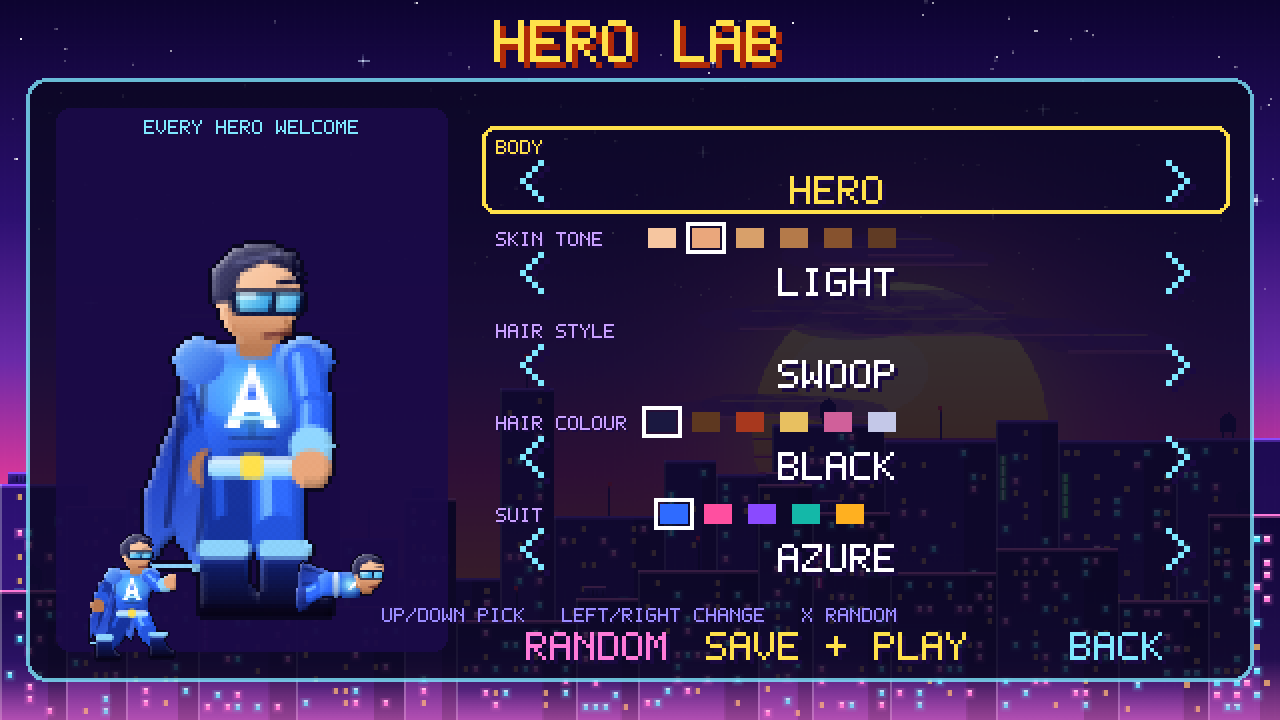
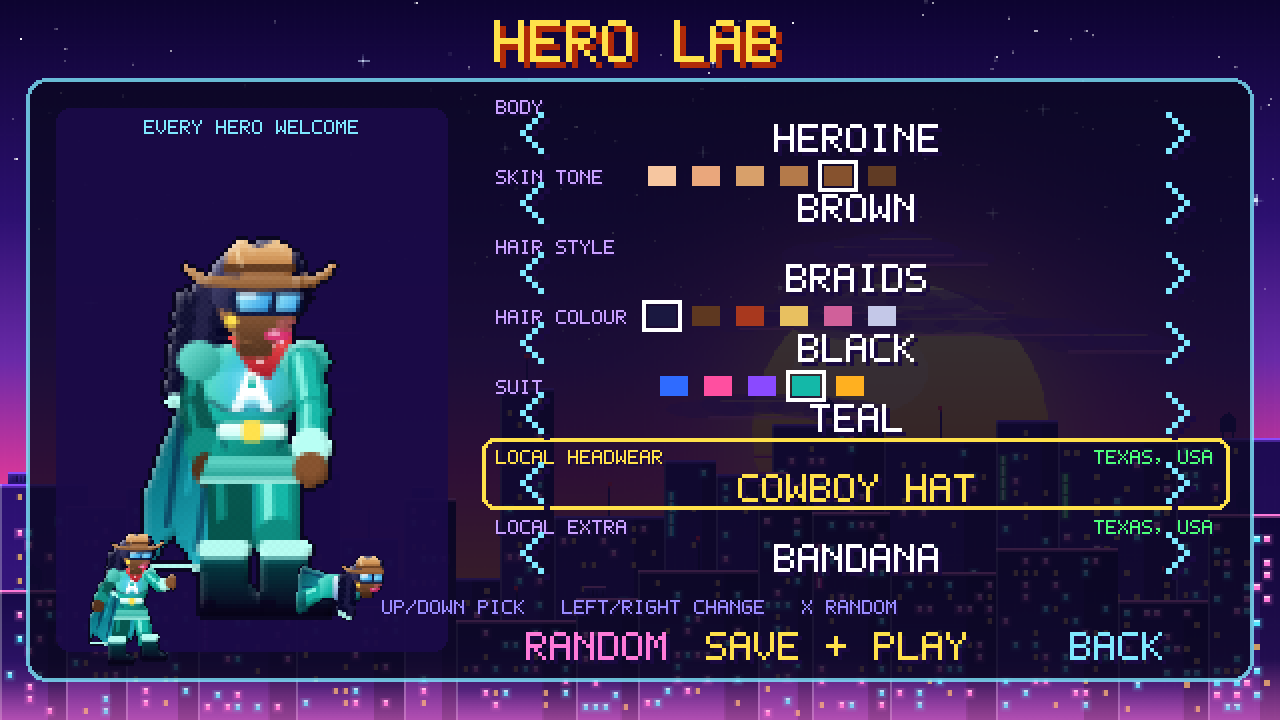
Hero Lab: localised headwear and extras
Cowboy hat, sombrero, bowler, beret, King's Day crown, hachimaki, cork hat,
gondolier hat, carnaval plumes, Azure cap and tricorn, plus clogs, football
scarf, serape, flower garland and bandana. Drawn in code for every pose.

diff --git a/art/sprites.js b/art/sprites.js
@@ -203,15 +203,24 @@
     { suit: '#14b8a8', suitD: '#06564e', suitM: '#0e8e82', suitL: '#7ff0e0', cape: '#0a7a8a', capeL: '#2ac8d8', capeD: '#04363e', boots: '#04363e', bootL: '#1aa0a0', cuff: '#b8fff4' },
     { suit: '#ffb020', suitD: '#9a5a08', suitM: '#e08a10', suitL: '#ffe08a', cape: '#d0401a', capeL: '#ff7a3a', capeD: '#5e1404', boots: '#5e1404', bootL: '#d8601a', cuff: '#fff0b8' }
   ];
-  const HERO_DEF = { m: { body: 'm', skin: 1, hair: 'swoop', hairCol: 0, suit: 0 }, f: { body: 'f', skin: 1, hair: 'long', hairCol: 4, suit: 1 } };
+  // local wardrobe: [key, name, where it comes from]
+  const HERO_HATS = [['none', 'NONE', 'NO HAT'], ['cowboy', 'COWBOY HAT', 'TEXAS, USA'], ['sombrero', 'SOMBRERO', 'MEXICO'],
+    ['bowler', 'BOWLER HAT', 'LONDON, UK'], ['beret', 'BERET', 'PARIS, FRANCE'], ['crown', 'ORANGE CROWN', "KING'S DAY, NL"],
+    ['hachimaki', 'HACHIMAKI', 'TOKYO, JAPAN'], ['cork', 'CORK HAT', 'OUTBACK, AUSTRALIA'], ['boater', 'GONDOLIER HAT', 'VENICE, ITALY'],
+    ['plumes', 'CARNAVAL PLUMES', 'RIO, BRAZIL'], ['cap', 'AZURE CAP', 'REDMOND, USA'], ['tricorn', 'TRICORN', 'VIRGINIA, USA']];
+  const HERO_GEAR = [['none', 'NONE', 'NO EXTRA'], ['clogs', 'WOODEN CLOGS', 'NETHERLANDS'], ['scarf', 'FOOTBALL SCARF', 'LONDON, UK'],
+    ['serape', 'SERAPE', 'MEXICO'], ['lei', 'FLOWER GARLAND', 'RIO, BRAZIL'], ['bandana', 'BANDANA', 'TEXAS, USA']];
+  const HERO_DEF = { m: { body: 'm', skin: 1, hair: 'swoop', hairCol: 0, suit: 0, hat: 'none', gear: 'none' }, f: { body: 'f', skin: 1, hair: 'long', hairCol: 4, suit: 1, hat: 'none', gear: 'none' } };
   const H = {};
-  let FEM = false, HAIR = 'swoop';
+  let FEM = false, HAIR = 'swoop', HAT = 'none', GEAR = 'none';
+  const known = (list, k) => list.some((x) => x[0] === k);
   function applyLook(L) {
     Object.assign(H, HERO_SUIT[L.suit] || HERO_SUIT[0]);
     const s = HERO_SKIN[L.skin] || HERO_SKIN[1], h = HERO_HAIR[L.hairCol] || HERO_HAIR[0];
     H.skinL = s[0]; H.skin = s[1]; H.skinD = s[2];
     H.hairL = h[0]; H.hair = h[1]; H.hairD = h[2];
     FEM = L.body === 'f'; HAIR = HERO_HAIR_STYLES.indexOf(L.hair) >= 0 ? L.hair : 'swoop';
+    HAT = known(HERO_HATS, L.hat) ? L.hat : 'none'; GEAR = known(HERO_GEAR, L.gear) ? L.gear : 'none';
   }
   applyLook(HERO_DEF.m);
 
@@ -238,6 +247,7 @@
     if (FEM) rrect(g, bx - 3, by - 1.6, 2, 1.8, 0.4, '#0a0620');
     rrect(g, bx - 3.2, by - 9, 6.6, 2.2, 0.8, H.cuff);
     line(g, bx - 2.4, by - 0.2, bx + 5.6, by - 0.2, 0.9, '#0a0620');
+    if (GEAR === 'clogs') heroClog(g, bx, by);
   }
   function heroEmblem(g, cx, cy, s) {
     const gl = g.createRadialGradient(cx, cy, 0.5, cx, cy, 6.5 * s);
@@ -326,6 +336,98 @@
       if (HAIR === 'long') poly(g, [[20.4, 3.6], [22.8, 5], [22.6, 7], [21.2, 5.4]], H.hair);
     }
   }
+  // headwear in head space (face looks right, glasses at y 6.6, canvas top is y 0)
+  function heroHat(g) {
+    const V = (y0, y1, c) => lg(g, 0, y0, 0, y1, c);
+    if (HAT === 'cowboy') {
+      poly(g, [[12.6, 4.8], [12.8, 1.6], [14.6, 0.5], [16.8, 1.5], [19, 0.5], [21, 1.6], [21.2, 4.8]], V(0.5, 5, [[0, '#f2c27e'], [0.6, '#c8884a'], [1, '#8a5428']]));
+      line(g, 12.8, 4, 21, 4, 1, '#5a3014');
+      poly(g, [[7.4, 3.2], [9.4, 4.8], [16.8, 5.4], [24.4, 4.8], [26.4, 3.2], [26, 4.6], [24, 6.2], [16.8, 6.8], [9.8, 6.2], [7.8, 4.6]], V(3, 7, [[0, '#e0a868'], [1, '#7a4620']]));
+      line(g, 14, 1.4, 14.6, 3.6, 0.5, 'rgba(255,240,200,0.6)');
+    } else if (HAT === 'sombrero') {
+      poly(g, [[13.6, 5.2], [14.2, 1.6], [16.8, 0.3], [19.4, 1.6], [20, 5.2]], V(0.3, 5.2, [[0, '#fff0a8'], [1, '#d8a040']]));
+      line(g, 13.8, 3.8, 19.8, 3.8, 1, '#d0203a'); for (let x = 14.2; x < 19.6; x += 1.4) ell(g, x, 3.8, 0.35, 0.35, '#2ab04a');
+      poly(g, [[3.2, 3.4], [5.4, 5.2], [16.8, 6], [28.2, 5.2], [30.4, 3.4], [30, 5.2], [27.6, 7], [16.8, 7.6], [6, 7], [3.6, 5.2]], V(3.4, 7.6, [[0, '#ffe08a'], [1, '#b07a24']]));
+      for (let x = 5.4; x < 28.6; x += 2.2) line(g, x, 6.1 + Math.abs(x - 16.8) * -0.03, x + 1.1, 6.9, 0.5, '#d0203a');
+    } else if (HAT === 'bowler') {
+      g.save(); g.beginPath(); g.rect(0, -2, 32, 5.2); g.clip(); ell(g, 16.8, 5.2, 5.4, 5, lg(g, 12, 0, 22, 5, [[0, '#6a5c80'], [0.35, '#2a2034'], [1, '#0a0610']])); g.restore();
+      line(g, 11.6, 4.3, 22, 4.3, 1, '#7a2a3a');
+      poly(g, [[9.2, 3.8], [10.6, 4.8], [16.8, 5.2], [23, 4.8], [24.4, 3.8], [24.2, 5.2], [22.6, 6.2], [16.8, 6.4], [11, 6.2], [9.4, 5.2]], '#16101e');
+      line(g, 10, 5.4, 23.6, 5.4, 0.4, 'rgba(160,140,200,0.6)');
+      ell(g, 15, 1.8, 1.6, 0.8, 'rgba(255,255,255,0.35)', -0.4);
+    } else if (HAT === 'beret') {
+      ell(g, 17.4, 3.2, 6.8, 2.6, V(0.6, 5.8, [[0, '#ff5a6a'], [0.5, '#c81e3a'], [1, '#6a0a1a']]), -0.12);
+      line(g, 11.2, 4.8, 22, 5, 0.9, '#6a0a1a');
+      line(g, 17.6, 0.8, 17.9, 0.1, 0.8, '#6a0a1a');
+    } else if (HAT === 'crown') {
+      poly(g, [[12.2, 5.2], [12, 1.4], [14, 3], [15.4, 0.4], [16.8, 2.6], [18.2, 0.4], [19.6, 3], [21.6, 1.4], [21.4, 5.2]], V(0.4, 5.2, [[0, '#ffd060'], [0.5, '#ff8a10'], [1, '#c04a00']]));
+      line(g, 12.2, 4.6, 21.4, 4.6, 0.8, '#ffe8a0');
+      [[12, 1.4], [15.4, 0.6], [18.2, 0.6], [21.6, 1.4]].forEach((p) => ell(g, p[0], p[1] + 0.2, 0.6, 0.6, '#fff4c0'));
+    } else if (HAT === 'hachimaki') {
+      rrect(g, 11, 3.6, 12, 1.8, 0.8, V(3.6, 5.4, [[0, '#ffffff'], [1, '#c8d0e8']]));
+      ell(g, 20.4, 4.5, 1, 0.8, '#e0102a');
+      poly(g, [[11.4, 4], [8.4, 5.4], [6.4, 8.6], [8.2, 8], [10.6, 5.6]], '#e8ecf8');
+      poly(g, [[11.4, 4.8], [9, 7.6], [8.6, 10.6], [10, 9.4], [11.6, 6]], '#c8d0e8');
+    } else if (HAT === 'cork') {
+      poly(g, [[13, 4.8], [13.2, 1.6], [15, 0.8], [16.8, 1.8], [18.6, 0.8], [20.6, 1.6], [20.8, 4.8]], V(0.8, 4.8, [[0, '#e8d4a0'], [1, '#a08850']]));
+      line(g, 13.2, 4, 20.6, 4, 0.9, '#3a2410');
+      poly(g, [[9, 4.4], [16.8, 5.2], [24.6, 4.4], [24.8, 5.4], [16.8, 6.4], [8.8, 5.4]], '#b09a60');
+      [[9.6, 9.6], [11.2, 8.4], [23, 8.4], [24.4, 9.8]].forEach((c) => { line(g, c[0], 5.4, c[0], c[1], 0.3, '#3a2410'); rrect(g, c[0] - 0.6, c[1], 1.2, 1.8, 0.3, '#d8a868'); });
+    } else if (HAT === 'boater') {
+      rrect(g, 12.6, 1.2, 8.6, 3.8, 0.6, V(1.2, 5, [[0, '#fff2b0'], [1, '#d0a848']]));
+      for (let y = 1.8; y < 3.6; y += 0.9) line(g, 12.8, y, 21, y, 0.3, 'rgba(150,100,30,0.5)');
+      rrect(g, 12.6, 3.4, 8.6, 1.4, 0.3, '#d0203a');
+      poly(g, [[12.8, 3.6], [11, 5.6], [10.4, 8.4], [11.6, 7], [13, 4.6]], '#a01828');
+      poly(g, [[8.6, 4.6], [25, 4.6], [24.6, 5.8], [9, 5.8]], V(4.6, 5.8, [[0, '#ffe8a0'], [1, '#b08a3a']]));
+    } else if (HAT === 'plumes') {
+      const F = [['#ff3aa8', -3.1], ['#ffd020', -2.8], ['#2ad06a', -2.5], ['#3ad8ff', -2.2], ['#ff7a1a', -1.9], ['#c84aff', -1.6]];
+      F.forEach((f) => { const a = f[1], x = 15 + Math.cos(a) * 5, y = 4.2 + Math.sin(a) * 3.4; ell(g, x, y, 4.6, 1.1, f[0], Math.atan2(Math.sin(a) * 3.4, Math.cos(a) * 5)); line(g, 15.6, 3.4, x + Math.cos(a) * 3, y + Math.sin(a) * 3, 0.3, 'rgba(255,255,255,0.7)'); });
+      rrect(g, 11.2, 3.4, 11.6, 1.8, 0.7, V(3.4, 5.2, [[0, '#fff0a0'], [1, '#d09020']]));
+      ell(g, 19.6, 4.3, 1, 0.9, '#3ad8ff'); ell(g, 15, 4.3, 0.7, 0.7, '#ff3aa8');
+    } else if (HAT === 'cap') {
+      g.save(); g.beginPath(); g.rect(0, -2, 32, 5.6); g.clip(); ell(g, 16.6, 5.4, 5.8, 5.2, V(0, 5.6, [[0, '#7fd0ff'], [0.4, '#1a7ae0'], [1, '#0a3a8a']])); g.restore();
+      poly(g, [[19.6, 4.4], [25.8, 4.8], [26.4, 5.8], [19.6, 6]], V(4.4, 6, [[0, '#2a8aff'], [1, '#08286a']]));
+      [['#f25022', 0, 0], ['#7fba00', 1, 0], ['#00a4ef', 0, 1], ['#ffb900', 1, 1]].forEach((q) => { g.fillStyle = q[0]; g.fillRect(16.4 + q[1], 1.8 + q[2], 0.9, 0.9); });
+      ell(g, 16.6, 0.5, 0.7, 0.4, '#0a3a8a');
+    } else if (HAT === 'tricorn') {
+      poly(g, [[9.4, 5.6], [10.6, 1.2], [13.6, 3], [16.8, 0.4], [20, 3], [23, 1.2], [24.2, 5.6], [16.8, 6.4]], V(0.4, 6.4, [[0, '#4a4070'], [0.5, '#1c1834'], [1, '#0a0818']]));
+      g.strokeStyle = '#e8c060'; g.lineWidth = 0.5; g.beginPath(); g.moveTo(10.6, 1.4); g.lineTo(13.6, 3.2); g.lineTo(16.8, 0.6); g.lineTo(20, 3.2); g.lineTo(23, 1.4); g.stroke();
+      ell(g, 21.4, 3.6, 0.9, 0.9, '#ffffff');
+    }
+  }
+  // wearable extras in body space; pose 'fly' uses the horizontal flight rig
+  function heroGear(g, pose) {
+    const fly = pose === 'fly';
+    if (GEAR === 'scarf') {
+      if (fly) { rrect(g, 20.6, 18.4, 3, 5, 1, '#d0203a'); poly(g, [[21, 19], [12, 15.4], [11, 17.4], [21, 21.4]], '#d0203a'); for (let x = 13; x < 20; x += 2.4) line(g, x, 16, x + 0.4, 18.6, 1, '#ffffff'); return; }
+      rrect(g, 12.6, 12.4, 8.4, 3, 1.2, '#d0203a'); for (let x = 13.6; x < 21; x += 2.4) line(g, x, 12.6, x, 15.2, 0.9, '#ffffff');
+      rrect(g, 12.2, 14, 2.8, 9.4, 0.8, '#d0203a'); for (let y = 15.4; y < 23; y += 2.4) line(g, 12.4, y, 14.8, y, 0.9, '#ffffff');
+      for (let x = 12.6; x < 15; x += 0.8) line(g, x, 23.4, x, 24.6, 0.3, '#ffffff');
+    } else if (GEAR === 'bandana') {
+      if (fly) { poly(g, [[20.4, 18.2], [24, 18.6], [21.6, 22.4]], '#d0203a'); return; }
+      poly(g, [[13, 12.6], [21.2, 12.6], [18.2, 18], [15.6, 16.8]], lg(g, 0, 12, 0, 18, [[0, '#ff4a4a'], [1, '#a01020']]));
+      [[15.2, 13.6], [18.4, 13.8], [17, 15.6], [19.6, 13.2]].forEach((p) => ell(g, p[0], p[1], 0.4, 0.4, '#ffffff'));
+    } else if (GEAR === 'lei') {
+      const C = ['#ff3aa8', '#ffd020', '#ffffff', '#ff7a1a', '#c84aff'];
+      for (let i = 0; i <= 10; i++) {
+        const t = i / 10, x = fly ? 22.4 - Math.sin(t * Math.PI) * 4 : 11.6 + t * 9.6, y = fly ? 17.6 + t * 8 : 13.6 + Math.sin(t * Math.PI) * 5.4;
+        ell(g, x, y, 1.15, 1.15, C[i % 5]); ell(g, x, y, 0.35, 0.35, '#ffe14a');
+      }
+    } else if (GEAR === 'serape') {
+      if (fly) { [['#d0203a', 17.4], ['#ffd020', 18.6], ['#2ab04a', 19.8], ['#3ad8ff', 21]].forEach((s) => line(g, 10, s[1] - 1.2, 22, s[1] - 1.8, 1.2, s[0])); return; }
+      poly(g, [[8.4, 15.6], [11.6, 13.4], [20.4, 13.4], [23.6, 15.6], [22.4, 19.4], [16, 22.6], [9.6, 19.4]], '#7a1a2a');
+      g.save(); g.beginPath(); g.moveTo(8.4, 15.6); g.lineTo(11.6, 13.4); g.lineTo(20.4, 13.4); g.lineTo(23.6, 15.6); g.lineTo(22.4, 19.4); g.lineTo(16, 22.6); g.lineTo(9.6, 19.4); g.closePath(); g.clip();
+      ['#d0203a', '#ffd020', '#2ab04a', '#3ad8ff', '#ff7a1a', '#ffffff'].forEach((c, i) => line(g, 6, 14.4 + i * 1.6, 26, 14.4 + i * 1.6, 0.9, c));
+      g.restore();
+      for (let x = 10.6; x < 22; x += 1.2) line(g, x, 19.8 + (1 - Math.abs(x - 16) / 6) * 2.4, x, 21 + (1 - Math.abs(x - 16) / 6) * 2.4, 0.3, '#ffd020');
+      rrect(g, 14.6, 13, 3.6, 1.6, 0.6, '#3a0a14');
+    }
+  }
+  function heroClog(g, bx, by) {
+    poly(g, [[bx - 3.2, by - 4.4], [bx + 2.4, by - 4.6], [bx + 6.6, by - 2], [bx + 6.8, by + 0.4], [bx - 3.2, by + 0.4]], lg(g, 0, by - 5, 0, by + 1, [[0, '#fff090'], [0.5, '#f0c020'], [1, '#a07008']]));
+    line(g, bx - 2.6, by - 4, bx + 2.2, by - 4.1, 0.5, '#fffbe0');
+    ell(g, bx + 3.4, by - 2.4, 0.9, 0.6, '#d08a10');
+  }
   function heroHead(g, dx, dy, skipBack) {
     dx = dx || 0; dy = dy || 0;
     g.save(); g.translate(dx, dy);
@@ -346,6 +448,7 @@
       line(g, 22.4, 7, 23.4, 6.2, 0.45, '#0a0620'); line(g, 22.4, 8, 23.6, 7.6, 0.45, '#0a0620');
       g.globalAlpha = 0.35; ell(g, 20.4, 11, 1.4, 0.9, '#ff6a9a'); g.globalAlpha = 1;
     } else line(g, 17.6, 12.5, 20.6, 12.1, 0.7, '#7a3a34');
+    heroHat(g);
     g.restore();
   }
   function heroShoulder(g, x, y, big) {
@@ -373,6 +476,7 @@
       heroTorso(g);
       heroShoulder(g, 22.6, 15.6, true);
       heroShoulder(g, 9.4, 15.6, false);
+      heroGear(g, 'stand');
       heroArm(g, o.front[0], o.front[1], o.front[2], true, o.fist);
       heroHead(g, o.hx, o.hy, backHair);
       if (o.punchFx) {
@@ -403,10 +507,11 @@
       poly(g, [[14, 18], [2, 14], [0.8, 20], [1.6, 26], [14, 26]], lg(g, 0, 14, 14, 26, [[0, H.capeD], [0.5, H.cape], [1, H.capeL]]));
       line(g, 12, 19, 3, 16.5, 0.8, 'rgba(8,16,70,0.55)'); line(g, 12, 22, 2.4, 22, 0.8, 'rgba(8,16,70,0.55)');
       line(g, 12, 25, 3, 26, 0.7, 'rgba(120,170,255,0.5)');
+const CL = GEAR === 'clogs' ? (y0, y1) => lg(g, 0, y0, 0, y1, [[0, '#fff090'], [1, '#c09010']]) : null;
       limb(g, 7, 25, 1.4, 28, 5.4, H.suitD, H.suitD, H.suitM);                                      // back leg
-      poly(g, [[0.4, 26], [3.6, 25], [4.6, 31], [0.6, 31.4]], lg(g, 0, 25, 4, 31, [[0, H.bootL], [1, H.boots]]));
+      poly(g, [[0.4, 26], [3.6, 25], [4.6, 31], [0.6, 31.4]], CL ? CL(25, 31) : lg(g, 0, 25, 4, 31, [[0, H.bootL], [1, H.boots]]));
       limb(g, 8, 24, 3, 26, 5.6, H.suitM, H.suit, H.suitL);                                         // front leg
-      poly(g, [[0, 23.6], [3.4, 23.2], [4.2, 29], [0.4, 29.4]], lg(g, 0, 23, 4, 29, [[0, H.bootL], [1, H.boots]]));
+      poly(g, [[0, 23.6], [3.4, 23.2], [4.2, 29], [0.4, 29.4]], CL ? CL(23, 29) : lg(g, 0, 23, 4, 29, [[0, H.bootL], [1, H.boots]]));
       poly(g, [[8, 19], [12, 17.4], [23, 18.4], [25, 21], [23, 26.4], [9, 26]], lg(g, 8, 17, 22, 26, [[0, H.suitL], [0.4, H.suit], [1, H.suitD]]));
       rrect(g, 13.2, 18, 2.6, 8.4, 1, lg(g, 0, 18, 0, 27, [[0, '#e6f6ff'], [1, '#6a8fc8']]));
       const gl = g.createRadialGradient(19.6, 22, 0.5, 19.6, 22, 5);
@@ -418,6 +523,7 @@
       limb(g, 28.4, 17.6, 31.4, 16.6, 4, H.suitM, H.suit, H.suitL);
       ell(g, 30, 17, 2.6, 2.6, H.cuff); ell(g, 31.3, 16.8, 2.5, 2.5, H.skin);
       rrect(g, 21.6, 20.6, 3.6, 3, 1, H.skinD);                                                      // neck
+      heroGear(g, 'fly');
       g.save(); g.translate(9.4, 10.4);
       heroHead(g, 0, 0);
       g.restore();
@@ -5119,7 +5225,7 @@
     sceneryKeys: sceneryKeys,
     billKeys: billKeys,
     hero: {
-      skins: HERO_SKIN.map((c) => c[1]), hairCols: HERO_HAIR.map((c) => c[1]), styles: HERO_HAIR_STYLES,
+      skins: HERO_SKIN.map((c) => c[1]), hairCols: HERO_HAIR.map((c) => c[1]), styles: HERO_HAIR_STYLES, hats: HERO_HATS, gear: HERO_GEAR,
       suits: HERO_SUIT.map((c) => c.suit), def: HERO_DEF
     },
     // saved Hero Lab look, falling back to the classic hero / heroine presets
@@ -5130,7 +5236,7 @@
     },
     // draws the hero frames for a look once and returns the texture prefix (frames: idle run0-3 jump attack shield fly)
     buildHero: function (scene, look) {
-      const P = 'hl_' + [look.body, look.skin, look.hair, look.hairCol, look.suit].join('_') + '_';
+      const P = 'hl_' + [look.body, look.skin, look.hair, look.hairCol, look.suit, look.hat || 'none', look.gear || 'none'].join('_') + '_';
       if (!scene.textures.exists(P + 'idle')) {
         regHero(P, look);
         HERO_FRAMES.forEach(function (f) { if (!scene.textures.exists(P + f)) scene.textures.addCanvas(P + f, defs[P + f]); });

diff --git a/systems/scenes.js b/systems/scenes.js
@@ -152,22 +152,31 @@
         { k: 'skin', label: 'SKIN TONE', n: A.skins.length, sw: A.skins, name: (i) => SKIN_NAMES[i] },
         { k: 'hair', label: 'HAIR STYLE', n: A.styles.length, get: () => A.styles.indexOf(this.look.hair), set: (i) => { this.look.hair = A.styles[i]; }, name: (i) => HAIR_NAMES[A.styles[i]] },
         { k: 'hairCol', label: this.look.hair === 'hijab' ? 'SCARF COLOUR' : 'HAIR COLOUR', n: A.hairCols.length, sw: A.hairCols, name: (i) => HAIRCOL_NAMES[i] },
-        { k: 'suit', label: 'SUIT', n: A.suits.length, sw: A.suits, name: (i) => SUIT_NAMES[i] }
+        { k: 'suit', label: 'SUIT', n: A.suits.length, sw: A.suits, name: (i) => SUIT_NAMES[i] },
+        { k: 'hat', label: 'LOCAL HEADWEAR', n: A.hats.length, list: A.hats },
+        { k: 'gear', label: 'LOCAL EXTRA', n: A.gear.length, list: A.gear }
       ];
+      this.rows.forEach((r) => {
+        if (!r.list) return;
+        r.get = () => Math.max(0, r.list.findIndex((x) => x[0] === this.look[r.k]));
+        r.set = (i) => { this.look[r.k] = r.list[i][0]; };
+        r.name = (i) => r.list[i][1];
+      });
       this.sel = 0;
       this.sw = this.add.graphics().setDepth(4);
       this.rows.forEach((r, i) => {
-        const y = 70 + i * 46;
+        const y = 50 + i * 35;
         r.y = y;
         r.lab = T(this, 248, y, r.label, { scale: 1, color: '#c9a0ff' });
-        r.val = T(this, 420, y + 18, '', { scale: 2, color: '#ffffff', ox: 0.5 });
+        if (r.list) r.from = T(this, 608, y, '', { scale: 1, color: '#4dff7a', ox: 1 });
+        r.val = T(this, 430, y + 12, '', { scale: 2, color: '#ffffff', ox: 0.5 });
         const step = (d) => { this.sel = i; this.change(d); };
-        AH.UI.button(this, 270, y + 22, '<', () => step(-1), { scale: 3 }).setDepth(20);
-        AH.UI.button(this, 590, y + 22, '>', () => step(1), { scale: 3 }).setDepth(20);
-        const z = this.add.zone(300, y - 4, 270, 40).setOrigin(0).setInteractive();
+        AH.UI.button(this, 270, y + 18, '<', () => step(-1), { scale: 3 }).setDepth(20);
+        AH.UI.button(this, 590, y + 18, '>', () => step(1), { scale: 3 }).setDepth(20);
+        const z = this.add.zone(300, y - 4, 270, 34).setOrigin(0).setInteractive();
         z.on('pointerdown', () => { this.sel = i; this.refresh(); });
       });
-      T(this, 320, 304, 'UP/DOWN PICK   LEFT/RIGHT CHANGE   X RANDOM', { scale: 1, color: '#9a8cff', ox: 0.5 });
+      T(this, 320, 300, 'UP/DOWN PICK   LEFT/RIGHT CHANGE   X RANDOM', { scale: 1, color: '#9a8cff', ox: 0.5 });
       AH.UI.button(this, 420, 324, 'SAVE + PLAY', () => this.done(true), { scale: 2, color: '#ffe14a' }).setDepth(20);
       AH.UI.button(this, 560, 324, 'BACK', () => this.done(false), { scale: 2 }).setDepth(20);
       AH.UI.button(this, 300, 324, 'RANDOM', () => this.random(), { scale: 2, color: '#ff7ad9' }).setDepth(20);
@@ -192,7 +201,7 @@
     }
     random() {
       const A = AH.Art.hero, R = (n) => Math.floor(Math.random() * n);
-      this.look = { body: R(2) ? 'f' : 'm', skin: R(A.skins.length), hair: A.styles[R(A.styles.length)], hairCol: R(A.hairCols.length), suit: R(A.suits.length) };
+      this.look = { body: R(2) ? 'f' : 'm', skin: R(A.skins.length), hair: A.styles[R(A.styles.length)], hairCol: R(A.hairCols.length), suit: R(A.suits.length), hat: A.hats[R(A.hats.length)][0], gear: A.gear[R(A.gear.length)][0] };
       AH.Audio.play('power');
       this.refresh();
     }
@@ -205,7 +214,8 @@
         r.lab.setColor(on ? '#ffe14a' : '#c9a0ff');
         if (r.k === 'hairCol') r.lab.setText(this.look.hair === 'hijab' ? 'SCARF COLOUR' : 'HAIR COLOUR');
         r.val.setText(r.name(v)).setColor(on ? '#ffe14a' : '#ffffff');
-        if (on) sw.lineStyle(2, 0xffe14a, 1).strokeRoundedRect(242, r.y - 6, 372, 42, 6);
+        if (r.from) r.from.setText(r.list[v][2]);
+        if (on) sw.lineStyle(2, 0xffe14a, 1).strokeRoundedRect(242, r.y - 5, 372, 34, 6);
         if (r.sw) r.sw.forEach((c, j) => {
           const x = 330 + j * 22 - (r.sw.length - 5) * 6, col = Phaser.Display.Color.HexStringToColor(c).color;
           sw.fillStyle(col, 1).fillRect(x, r.y - 2, 14, 10);

diff --git a/.github/skills/game-contract/SKILL.md b/.github/skills/game-contract/SKILL.md
@@ -76,7 +76,7 @@ F Azure Blast, Shift Flight Boost, E / S / Down = MFA Shield, P pause, R restart
 - Landmarks may come from anywhere in the country, not only the region's city.
 
 ### Save, resume and online contract
-- `AH.Save.data = { best, unlocked, bests: {id: score}, muted, hero, look, resume: {id, score, lives} | null, updated }`. `unlocked` is `n + 1` when all n levels are cleared.
+- `AH.Save.data = { best, unlocked, bests: {id: score}, muted, hero, look: {body, skin, hair, hairCol, suit, hat, gear}, resume: {id, score, lives} | null, updated }`. `unlocked` is `n + 1` when all n levels are cleared.
 - Resume rules: level start saves `{id, startScore, startLives}`. Game over saves `{id, 0, 3}`. Level complete saves the next level with the current score and lives, or `null` after the last level. Call `AH.Save.setResume(id, score, lives)`. Never write `resume` directly.
 - `AH.Online` (`systems/online.js`) is only active when `/api/health` answers. Otherwise the game is in guest mode and nothing breaks. `save()` pushes progress when logged in. `submitScore(score, level, city)` returns `{best, rank}` or `null`.
 - Server API (`server.js`, see README): `health`, `leaderboard`, `register`, `login`, `me`, `logout`, `progress` (merge: unlocks never go backwards; newer `updated` wins for resume), `score`. Names: 3-15 chars `A-Z 0-9`. Locations are limited to the pixel font charset (max 20 chars).

diff --git a/docs/article.md b/docs/article.md
@@ -50,7 +50,7 @@ Ground bosses cannot be hit head-on. The player holds the **MFA Shield** to bloc
 ![The Boxing Roo](screenshots/boss4.png)
 ![The Sumo Shogun](screenshots/boss3.png)
 
-Floating orbs add Copilot (an auto-firing sidekick), Defender, GitHub Actions, Power BI and Teams power-ups, plus Clippy tips and achievement toasts. The Hero Lab lets players build a male or female hero with six skin tones, several hair styles and colours, and suit colours. Phishing hoppers, Ransomware chargers and DDoS botnet clouds that drop bombs appear in every region, and Azure Pipelines warp pipes lead to underground bonus zones.
+Floating orbs add Copilot (an auto-firing sidekick), Defender, GitHub Actions, Power BI and Teams power-ups, plus Clippy tips and achievement toasts. The Hero Lab lets players build a male or female hero with six skin tones, several hair styles and colours, and suit colours, then add local wardrobe such as a cowboy hat, sombrero, beret, hachimaki, cork hat or carnaval plumes, and extras like Dutch clogs or a serape. Phishing hoppers, Ransomware chargers and DDoS botnet clouds that drop bombs appear in every region, and Azure Pipelines warp pipes lead to underground bonus zones.
 
 ![Hero Lab](screenshots/hero-lab.png)
 ![Azure Pipelines bonus zone](screenshots/pipe-zone.png)

diff --git a/README.md b/README.md
@@ -68,7 +68,7 @@ Every level ends in an arena with that region's boss. Ground bosses must be bloc
 | Power BI | Coin magnet and double score for 12 s |
 | Teams | Instant +30 health |
 
-Clippy warns you when health is low, and Xbox-style achievements pop up for firsts. Open the **Hero Lab** on the title screen with **H** to choose a male or female hero, skin tone, hair style, hair colour and suit colour. The choice is saved.
+Clippy warns you when health is low, and Xbox-style achievements pop up for firsts. Open the **Hero Lab** on the title screen with **H** to choose a male or female hero, skin tone, hair style, hair colour and suit colour, plus **local wardrobe** from the game's regions: a Texas cowboy hat, Mexican sombrero, London bowler, Paris beret, Dutch King's Day crown, Japanese hachimaki, Australian cork hat, Venetian gondolier hat, Rio carnaval plumes, a Redmond Azure cap or a Virginia tricorn, and extras such as Dutch wooden clogs, a football scarf, a serape, a flower garland or a bandana. The choice is saved and shows in every pose, including flight.
 
 Some levels have **Azure Pipelines** warp pipes: press Down (or stand still) on a pipe to drop into an underground bonus zone with extra coins and enemies, then take the exit pipe back up further along the level.
 

diff --git a/tests/playtest.md b/tests/playtest.md
@@ -90,6 +90,7 @@ Headless Chrome, 1280x720. One browser process per level.
 | Complete, then WORLD MAP, then deploy | PASS | The next level reaches `play` with no errors. |
 | Register, play, game over, world rank | PASS | Against `server.js`: register on the HTML form, game over posts the score, and the panel shows WORLD RANK. The leaderboard lists name, location and score. |
 | Server API | PASS | `npm test`: register, duplicate name, login, wrong password, progress merge, score and rank, leaderboard, logout, static whitelist. |
+| Hero Lab wardrobe | PASS | 11 hats and 5 extras render in idle, run and flight frames (contact sheet reviewed). The keyboard changes the new rows, the look saves, survives a reload and shows in levels 1, 8 and 10 with no errors. |
 | Static host / file:// | PASS | No `/api/health`, so the game stays in guest mode with no account menu and no errors. |
 
 Not tested: real phones and mobile Safari, App Service itself (only the same Node server locally), and many concurrent users.

diff --git a/.github/skills/sprite-artist/SKILL.md b/.github/skills/sprite-artist/SKILL.md
@@ -9,4 +9,5 @@ description: Create 16-bit pixel art sprites and HUD for Azure Heroes 2027. Use 
 - Draw with code / pixel arrays, no external image files.
 - Keep the HUD from the mockups: Health, Score, MFA, Credits, Lives, Time on top, ability + level name at bottom.
 - The world map (`world_map`, `map_plane`) is drawn from lon/lat polygons in `MAP`/`LAND`. Use `AH.Art.MAP.proj(lon, lat)` to place pins for new regions.
+- Hero Lab wardrobe: add headwear to `HERO_HATS` and draw it in `heroHat` (head space, canvas top is y 0). Add extras to `HERO_GEAR` and draw them in `heroGear` (`stand` and `fly` poses). Each entry is `[key, NAME, ORIGIN]` using the pixel font charset.
 - Cyber-threat enemies (`phish_*`, `ram_*`, `botnet_*`, `ebomb`) are shared by every region.
